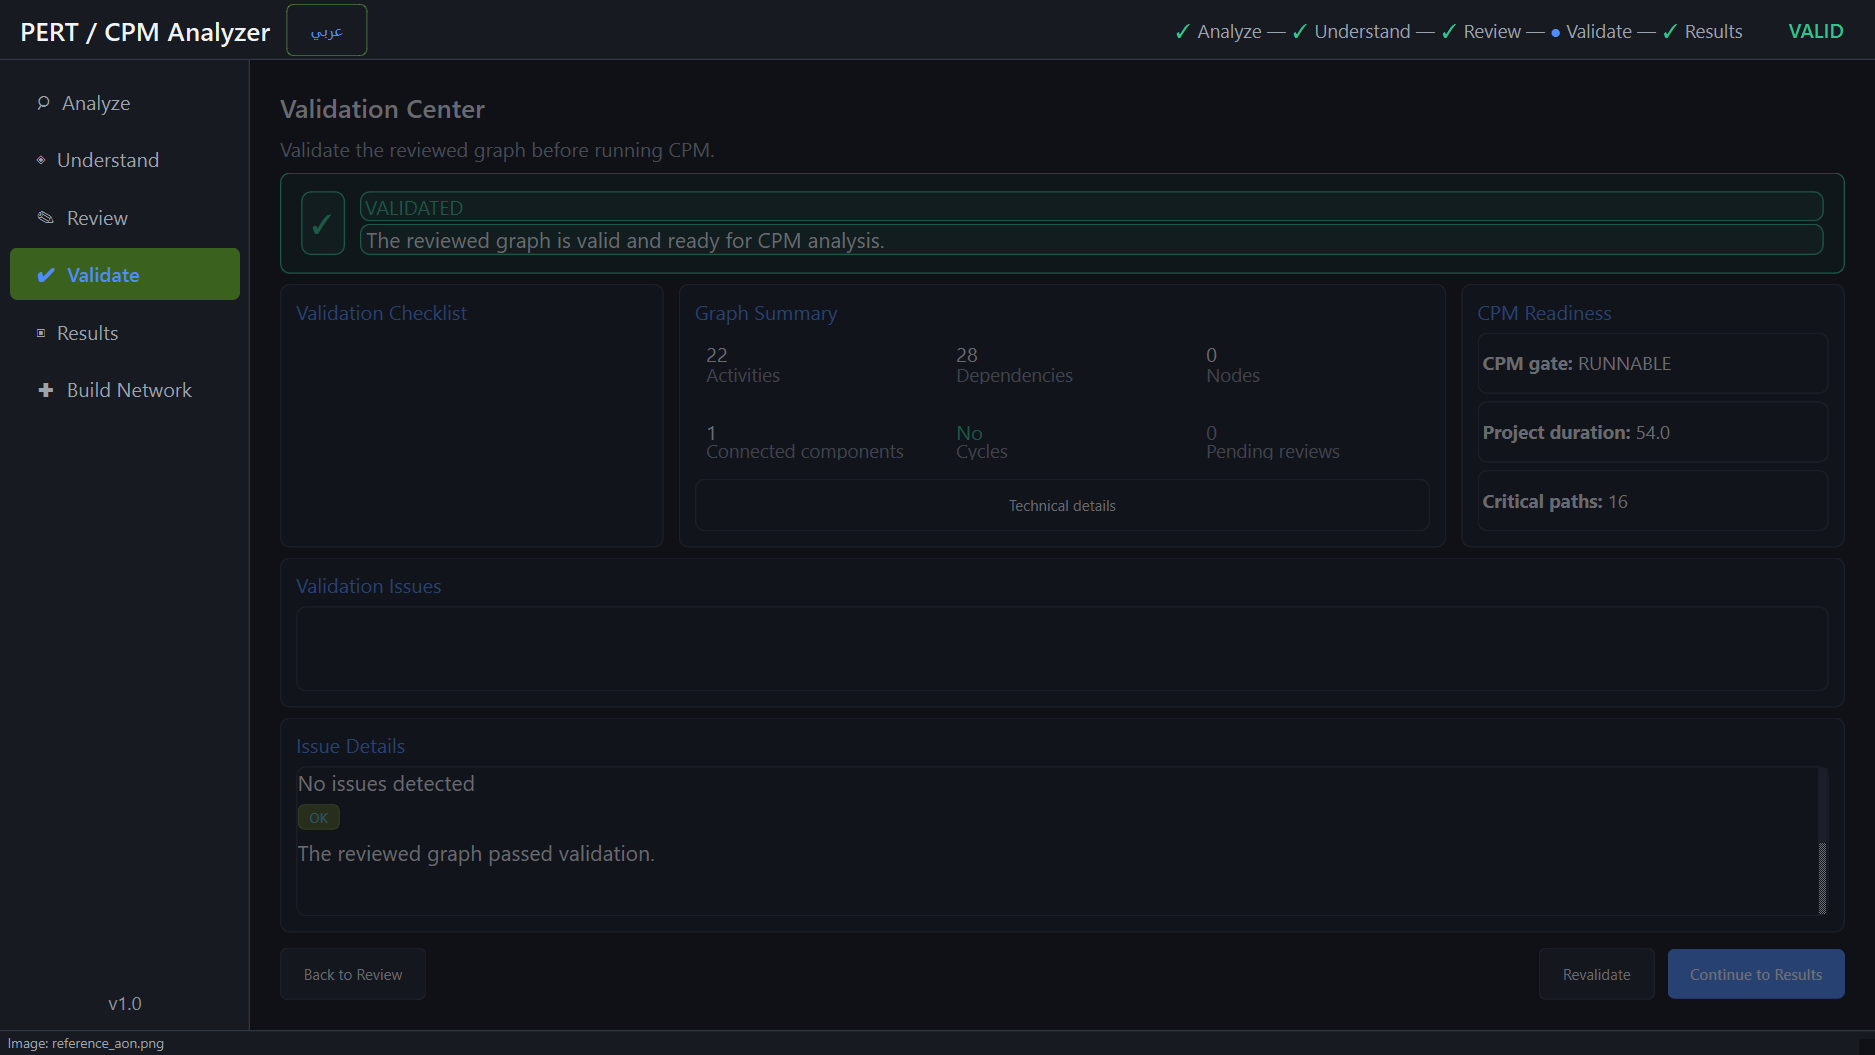
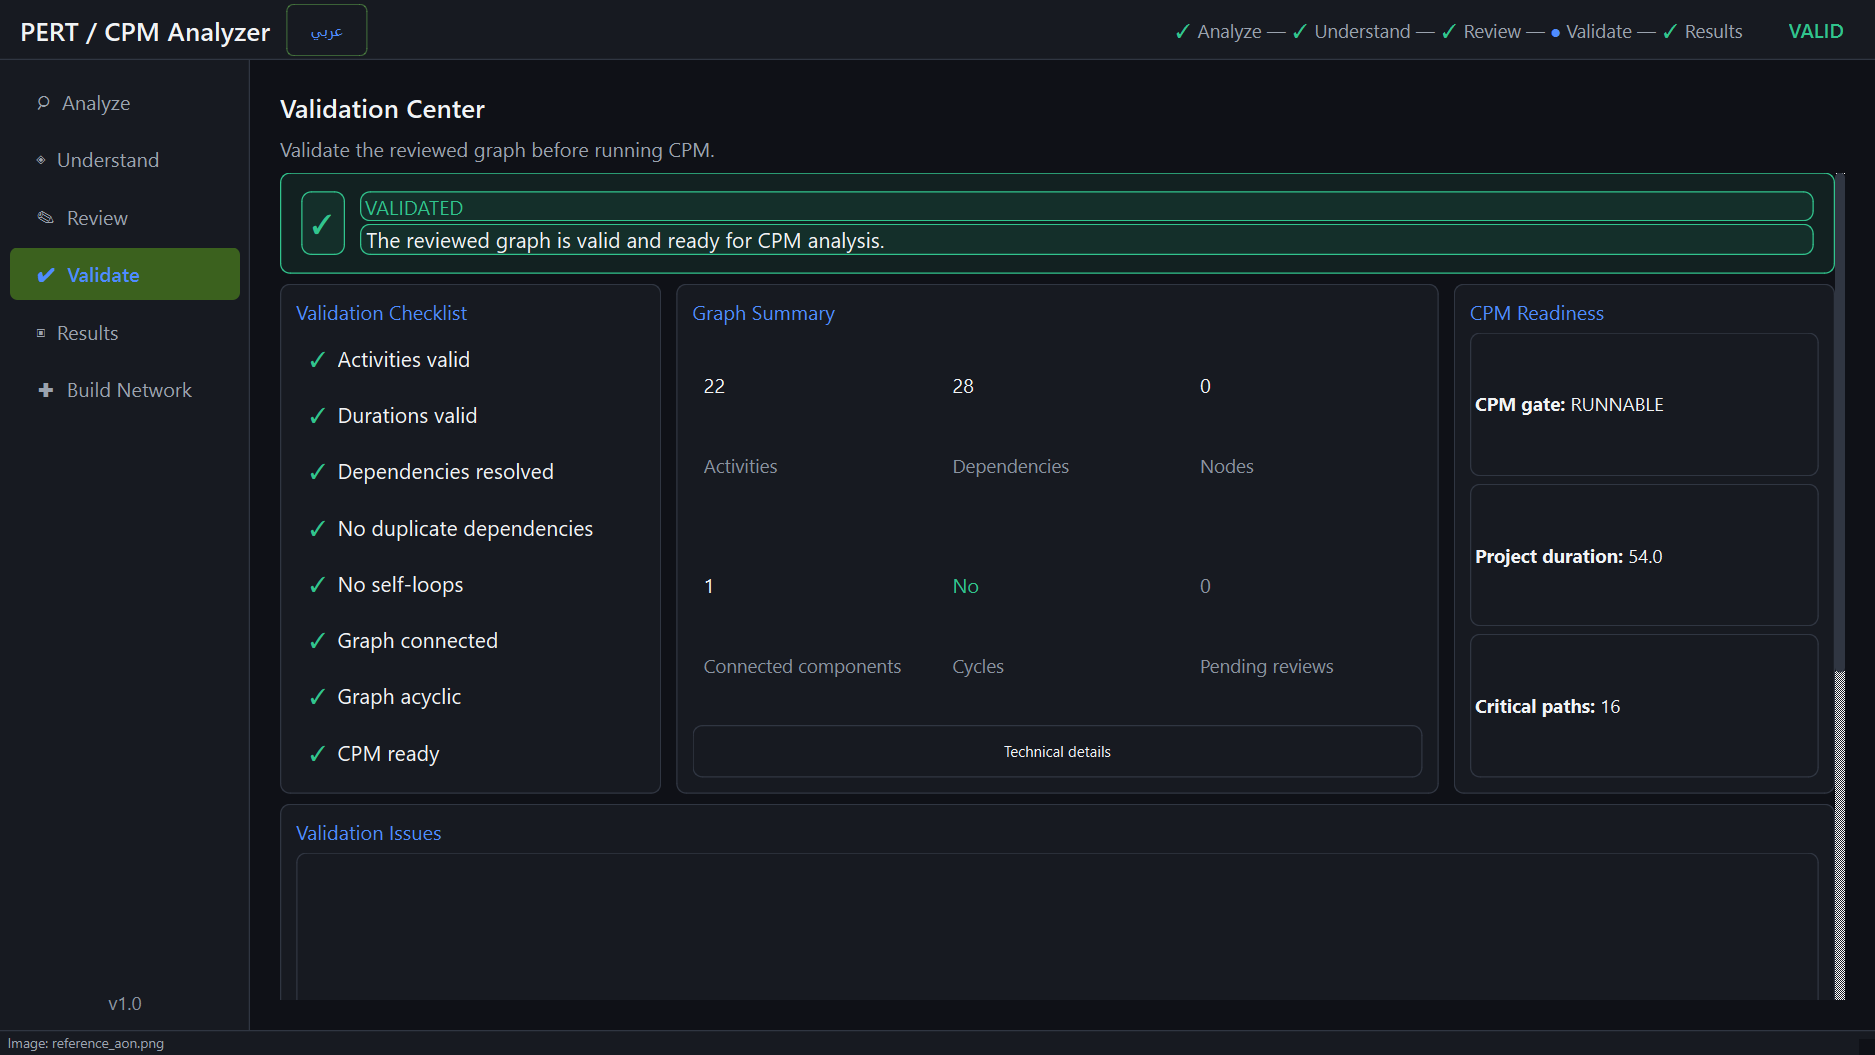
batch 4: fix dark text-box cascade + collapsed rows; opaque captures
- style.py: transparent display-leaf widgets (QLabel/QCheckBox/QRadioButton)
  and scroll-content widgets so app bg stops painting dark boxes behind every
  text line; dark alternate-background-color on QTableWidget (white rows gone)
- validation_page.py: workspace wrapped in QScrollArea so overflowing content
  scrolls instead of squeezing checklist rows to 0 height (vanished text)
- network_builder_page.py: scoped QScrollArea > QWidget transparency (dim pane)
- overview.py: panels top-align content with addStretch so health value renders
- main_window.py: drop QGraphicsOpacityEffect when the page-switch fade ends;
  lingering effect polluted later QWidget::grab() with alpha-0 regions
- capture_screenshots.py: event-loop pump after each nav (fade completes) and
  sub-tab grabs composited over BG -> fully opaque RGB docs set
- regenerate docs/ui_review/final captures (verified RGB, title at F1F3F5)

diff --git a/scripts/capture_screenshots.py b/scripts/capture_screenshots.py
@@ -1,4 +1,4 @@
-"""
+"""
 Capture screenshots of every GUI page using the reference AON workflow.
 Run with: python scripts/capture_screenshots.py
 """
@@ -7,6 +7,7 @@ from __future__ import annotations
 
 import os
 import sys
+import time
 from pathlib import Path
 
 os.environ.setdefault("QT_QPA_PLATFORM", "offscreen")
@@ -14,11 +15,13 @@ os.environ.setdefault("QT_QPA_PLATFORM", "offscreen")
 _ROOT = Path(__file__).resolve().parents[1]
 sys.path.insert(0, str(_ROOT))
 
+from PySide6.QtGui import QColor, QPainter, QPixmap
 from PySide6.QtWidgets import QApplication
 
 from pert_analyzer.gui.main_window import MainWindow
 from pert_analyzer.gui.navigation import NavDestination
 from pert_analyzer.gui.session import AppState
+from pert_analyzer.gui.themes.palette import BG
 from pert_analyzer.gui.themes.style import apply_theme
 from tests.helpers.reference_gold import (
     REFERENCE_AON,
@@ -30,10 +33,38 @@ OUT_DIR = _ROOT / "docs" / "ui_review" / "final"
 _workflow = None
 
 
+def pump(app: QApplication, ms: int = 320) -> None:
+    """Pump the event loop for wall-clock ms so the nav fade can finish."""
+    end = time.monotonic() + ms / 1000.0
+    while time.monotonic() < end:
+        app.processEvents()
+        time.sleep(0.004)
+
+
 def _grab(window: MainWindow, name: str) -> None:
     pixmap = window.grab()
     path = OUT_DIR / f"{name}.png"
     pixmap.save(str(path))
+    print(f"  saved {path}")
+
+
+def _grab_page(page_widget, name: str) -> None:
+    """Grab a child page for the docs set, composited over BG.
+
+    QWidget::grab() of a non-top-level widget leaves genuinely unpainted
+    regions (scrollbar tracks, effect-buffer gaps) with alpha 0, which render
+    as white holes in image viewers.  On screen those regions show the window
+    background, so compositing over BG reproduces the app exactly while
+    producing a fully opaque RGB PNG.
+    """
+    grabbed = page_widget.grab()
+    base = QPixmap(grabbed.size())
+    base.fill(QColor(BG))
+    painter = QPainter(base)
+    painter.drawPixmap(0, 0, grabbed)
+    painter.end()
+    path = OUT_DIR / f"{name}.png"
+    base.save(str(path))
     print(f"  saved {path}")
 
 
@@ -91,38 +122,45 @@ def main() -> None:
     print("\nCapturing: 01_analyze")
     window._on_nav(NavDestination.ANALYZE)
     app.processEvents()
+    pump(app, 320)
     analyze_page = window._analysis_page
     app.processEvents()
+    pump(app, 320)
     gui_sess = window._session
     summary = getattr(gui_sess, "review_summary", None) or {}
     count = summary.get("total_activities") or None
     analyze_page.set_analysis_result_status("REVIEW_REQUIRED", activity_count=count)
     analyze_page.show_completed(_workflow, review_item_total=gui_sess.review_item_total())
     app.processEvents()
+    pump(app, 320)
     _grab(window, "01_analyze")
 
     # 2. Understanding page
     print("Capturing: 02_understanding")
     window._on_nav(NavDestination.UNDERSTANDING)
     app.processEvents()
+    pump(app, 320)
     _grab(window, "02_understanding")
 
     # 3. Review Center
     print("Capturing: 03_review")
     window._on_nav(NavDestination.REVIEW)
     app.processEvents()
+    pump(app, 320)
     _grab(window, "03_review")
 
     # 4. Validation page
     print("Capturing: 04_validation")
     window._on_nav(NavDestination.VALIDATE)
     app.processEvents()
+    pump(app, 320)
     _grab(window, "04_validation")
 
     # 5. Results Overview
     print("Capturing: 05_results_overview")
     window._on_nav(NavDestination.RESULTS)
     app.processEvents()
+    pump(app, 320)
     _grab(window, "05_results_overview")
 
     # 6. Results sub-tabs
@@ -145,10 +183,7 @@ def main() -> None:
                 cp_tab.select_path(0)
                 cp_tab.repaint()
                 app.processEvents()
-        img = results_page.grab()
-        path = OUT_DIR / f"{name}.png"
-        img.save(str(path))
-        print(f"  saved {path}")
+        _grab_page(results_page, name)
 
     print("\nDone. Screenshots in:", OUT_DIR)
     return 0
@@ -156,3 +191,5 @@ def main() -> None:
 
 if __name__ == "__main__":
     sys.exit(main())
+
+

diff --git a/pert_analyzer/gui/themes/style.py b/pert_analyzer/gui/themes/style.py
@@ -68,6 +68,22 @@ def _build_stylesheet() -> str:
             font-family: '{FONT_FAMILY}', 'Segoe UI', sans-serif;
         }}
 
+        /* Display-leaf widgets never paint their own background.  Without
+           this, every QLabel inherited the app background color and painted
+           a dark box behind each text line (banners, panels, cards).  Labels
+           that intentionally carry a background set it in their own
+           stylesheet, which always wins over the app-level rule. */
+        QLabel, QCheckBox, QRadioButton {{
+            background: transparent;
+        }}
+
+        /* Content widgets placed inside a scroll area also stay transparent
+           so the surrounding page/card background shows through instead of
+           a dark viewport-coloured rectangle. */
+        QScrollArea > QWidget > QWidget {{
+            background: transparent;
+        }}
+
         /* ── Push buttons ───────────────────────────────────── */
         QPushButton {{
             background-color: {SURFACE_LIGHT};
@@ -269,6 +285,7 @@ def _build_stylesheet() -> str:
             border: 1px solid {BORDER};
             border-radius: {RADIUS_MD}px;
             gridline-color: {BORDER};
+            alternate-background-color: {SURFACE_LIGHT};
         }}
         QTableWidget::item {{
             padding: 5px 8px;

diff --git a/pert_analyzer/gui/pages/validation_page.py b/pert_analyzer/gui/pages/validation_page.py
@@ -214,7 +214,25 @@ class ValidationPage(QWidget):
         return widget
 
     def _build_workspace(self) -> QWidget:
+        """Workspace wrapped in a scroll area.
+
+        The workspace content (banner + summary cards + issues + details +
+        action bar) is taller than the central area at common window sizes.
+        Without a scroll area the outer layout squeezed flexible rows until
+        checklist and detail labels collapsed to zero height and their text
+        vanished.  Scrolling keeps every row at its natural height.
+        """
+        host = QWidget()
+        host_layout = QVBoxLayout(host)
+        host_layout.setContentsMargins(0, 0, 0, 0)
+
+        scroll = QScrollArea()
+        scroll.setWidgetResizable(True)
+        scroll.setFrameShape(QScrollArea.Shape.NoFrame)
+        host_layout.addWidget(scroll)
+
         workspace = QWidget()
+        scroll.setWidget(workspace)
         outer = QVBoxLayout(workspace)
         outer.setContentsMargins(0, 0, 0, 0)
         outer.setSpacing(8)
@@ -460,7 +478,7 @@ class ValidationPage(QWidget):
         bar.addWidget(self._continue_btn)
 
         outer.addLayout(bar)
-        return workspace
+        return host
 
     # ------------------------------------------------------------------
     # Refresh API

diff --git a/pert_analyzer/gui/main_window.py b/pert_analyzer/gui/main_window.py
@@ -438,6 +438,18 @@ class MainWindow(QMainWindow):
             animation.setStartValue(0.4)
             animation.setEndValue(1.0)
             animation.setEasingCurve(QEasingCurve.Type.OutCubic)
+
+            # Drop the effect once the fade completes.  A lingering
+            # QGraphicsOpacityEffect forces every later QWidget::grab()/render()
+            # through an offscreen buffer whose unpainted regions return with
+            # alpha 0 — turning page grabs (screenshots) transparent.  At
+            # opacity 1.0 the effect is visually a no-op, so removing it is
+            # invisible on screen.
+            def _drop_fade_effect(widget=widget, effect=effect) -> None:
+                if widget.graphicsEffect() is effect:
+                    widget.setGraphicsEffect(None)
+
+            animation.finished.connect(_drop_fade_effect)
             animation.start(QPropertyAnimation.DeletionPolicy.DeleteWhenStopped)
             widget._fade_effect = effect  # keep references alive
             widget._fade_animation = animation

diff --git a/pert_analyzer/gui/results/overview.py b/pert_analyzer/gui/results/overview.py
@@ -297,6 +297,7 @@ class OverviewTab(QWidget):
             f" border-radius: {RADIUS_SM}px; padding: 8px;"
         )
         layout.addWidget(self._health_checks)
+        layout.addStretch(1)
         return panel
 
     def _build_paths_panel(self) -> QFrame:
@@ -324,6 +325,7 @@ class OverviewTab(QWidget):
             f" border-radius: {RADIUS_SM}px; padding: 7px;"
         )
         layout.addWidget(self._more_paths)
+        layout.addStretch(1)
         return panel
 
     def _build_composition_panel(self) -> QFrame:

diff --git a/pert_analyzer/gui/pages/network_builder_page.py b/pert_analyzer/gui/pages/network_builder_page.py
@@ -197,6 +197,7 @@ class NetworkBuilderPage(QWidget):
         scroll.setWidget(self._activity_container)
         scroll.setStyleSheet(
             f"QScrollArea {{ border: none; background: transparent; }}"
+            f"QScrollArea > QWidget {{ background: transparent; }}"
         )
         layout.addWidget(scroll, stretch=1)
 
